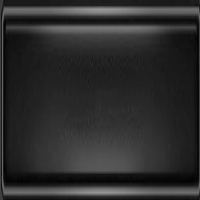
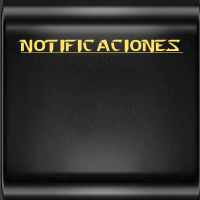
agrego titulo al panel de notificaciones

Changed region(s): [[0.09, 0.18, 0.9, 0.27]]

diff --git a/src/vista/auxiliares/jugador/DisplayNotificaciones.java b/src/vista/auxiliares/jugador/DisplayNotificaciones.java
@@ -47,7 +47,7 @@ public class DisplayNotificaciones extends JPanel {
         this.notificacion.setLineWrap(true);
         this.notificacion.setOpaque(false);
         this.inicializarTipoDeLetra();
-        this.notificacion.setBounds( 20, 50,  background.getIcon().getIconWidth()-30, background.getIcon().getIconHeight()-50);
+        this.notificacion.setBounds( 20, 80,  background.getIcon().getIconWidth()-30, background.getIcon().getIconHeight()-50);
     }
 
 
